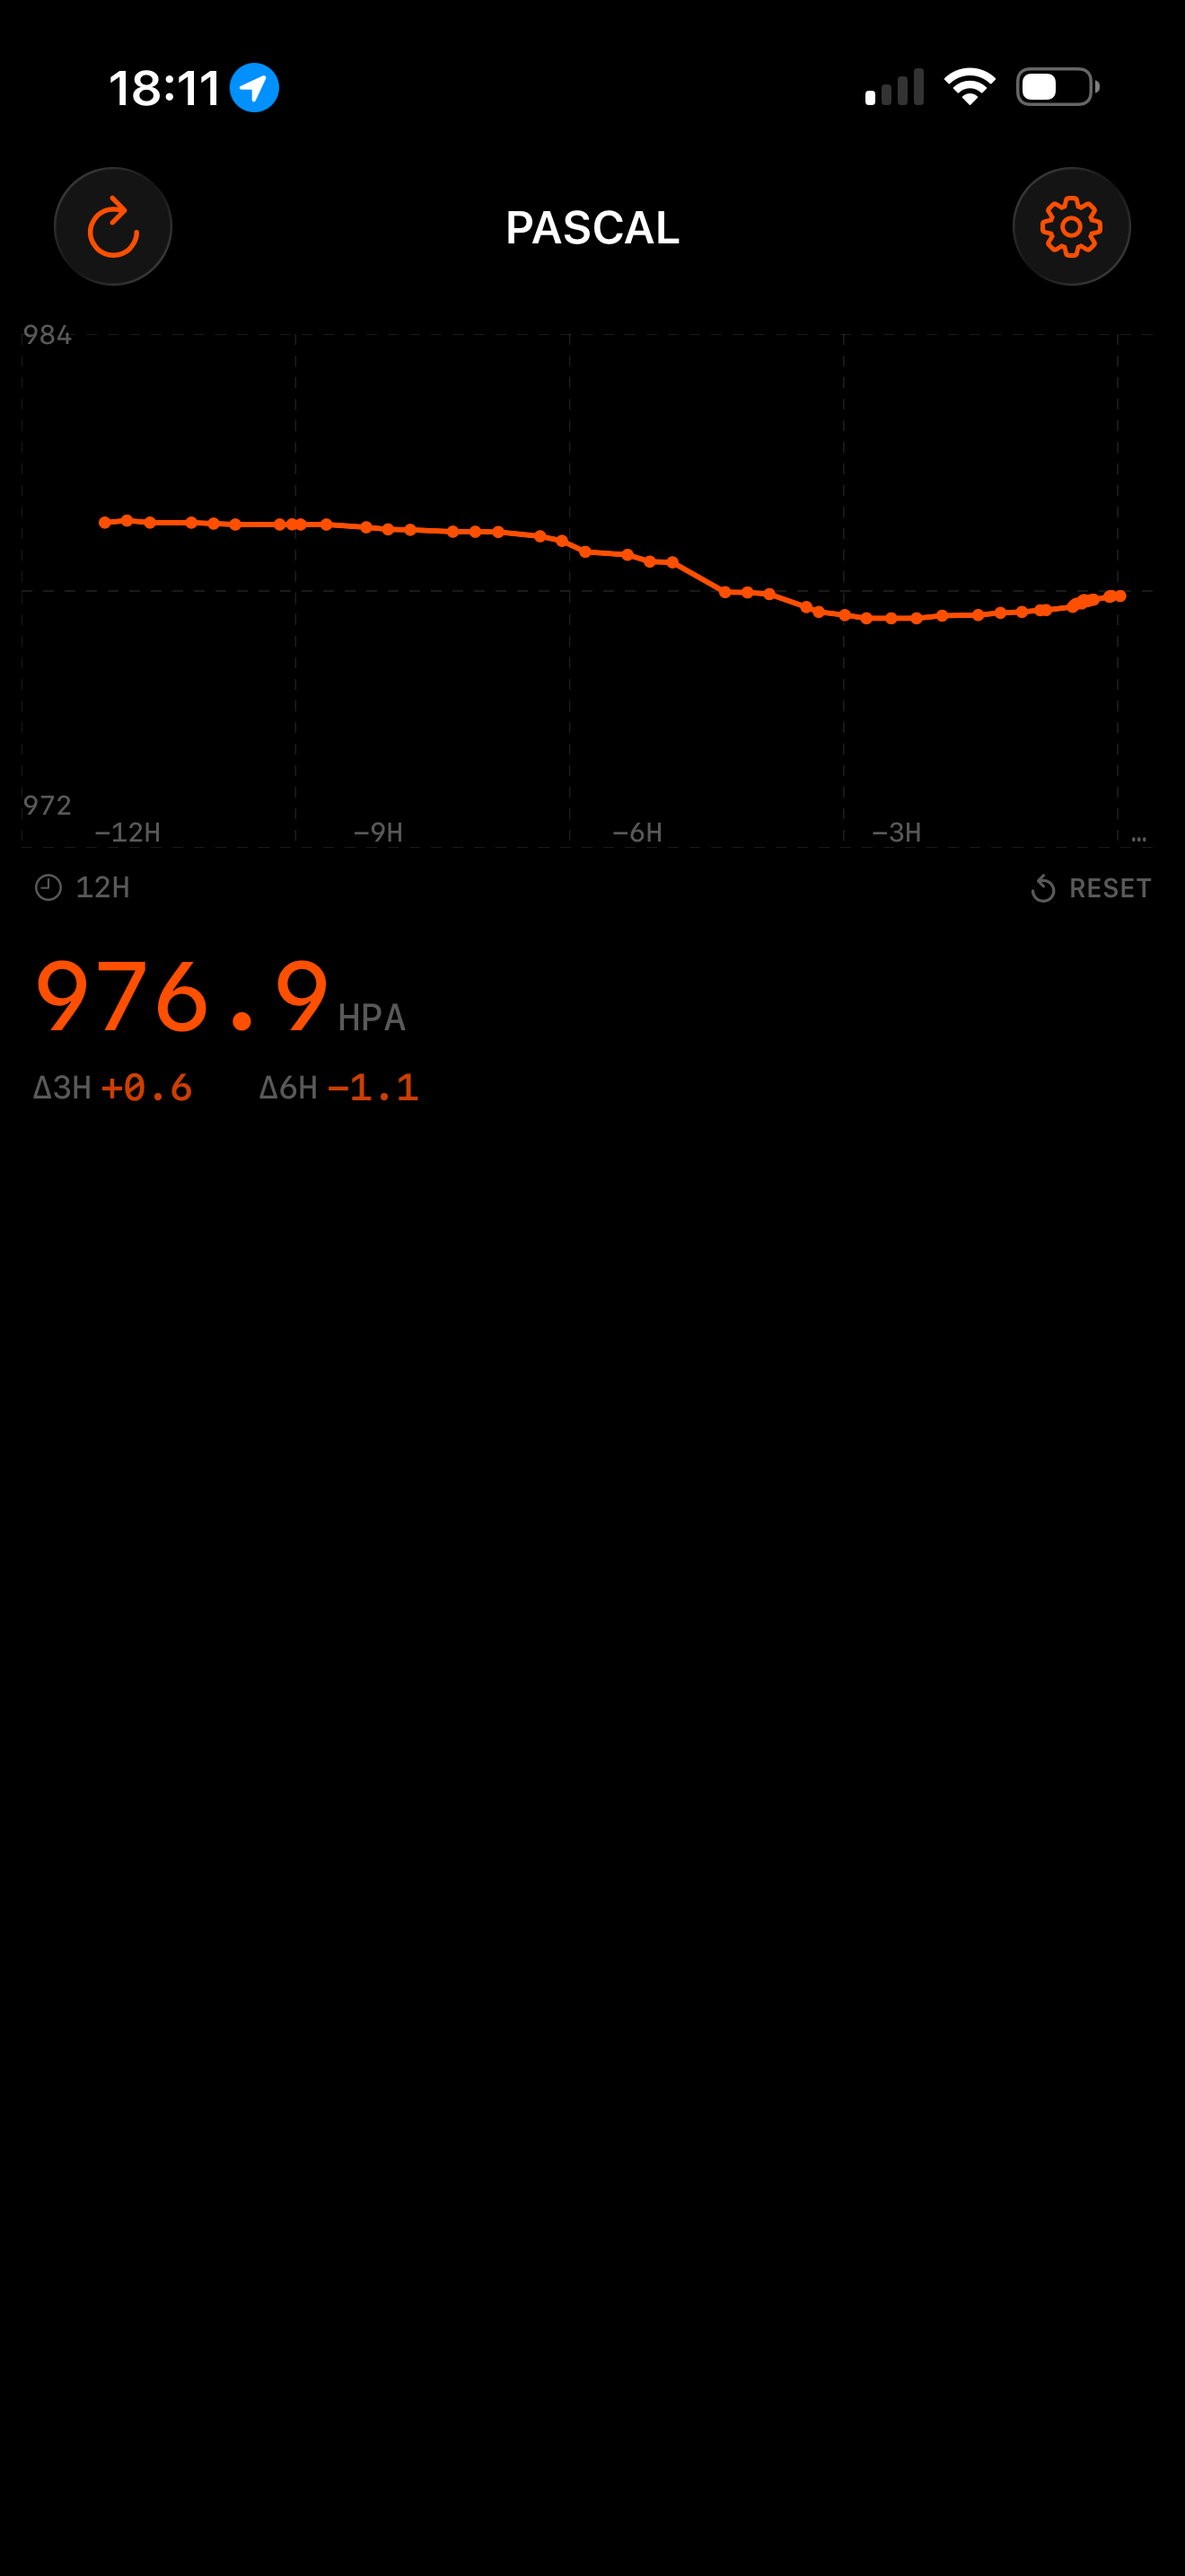
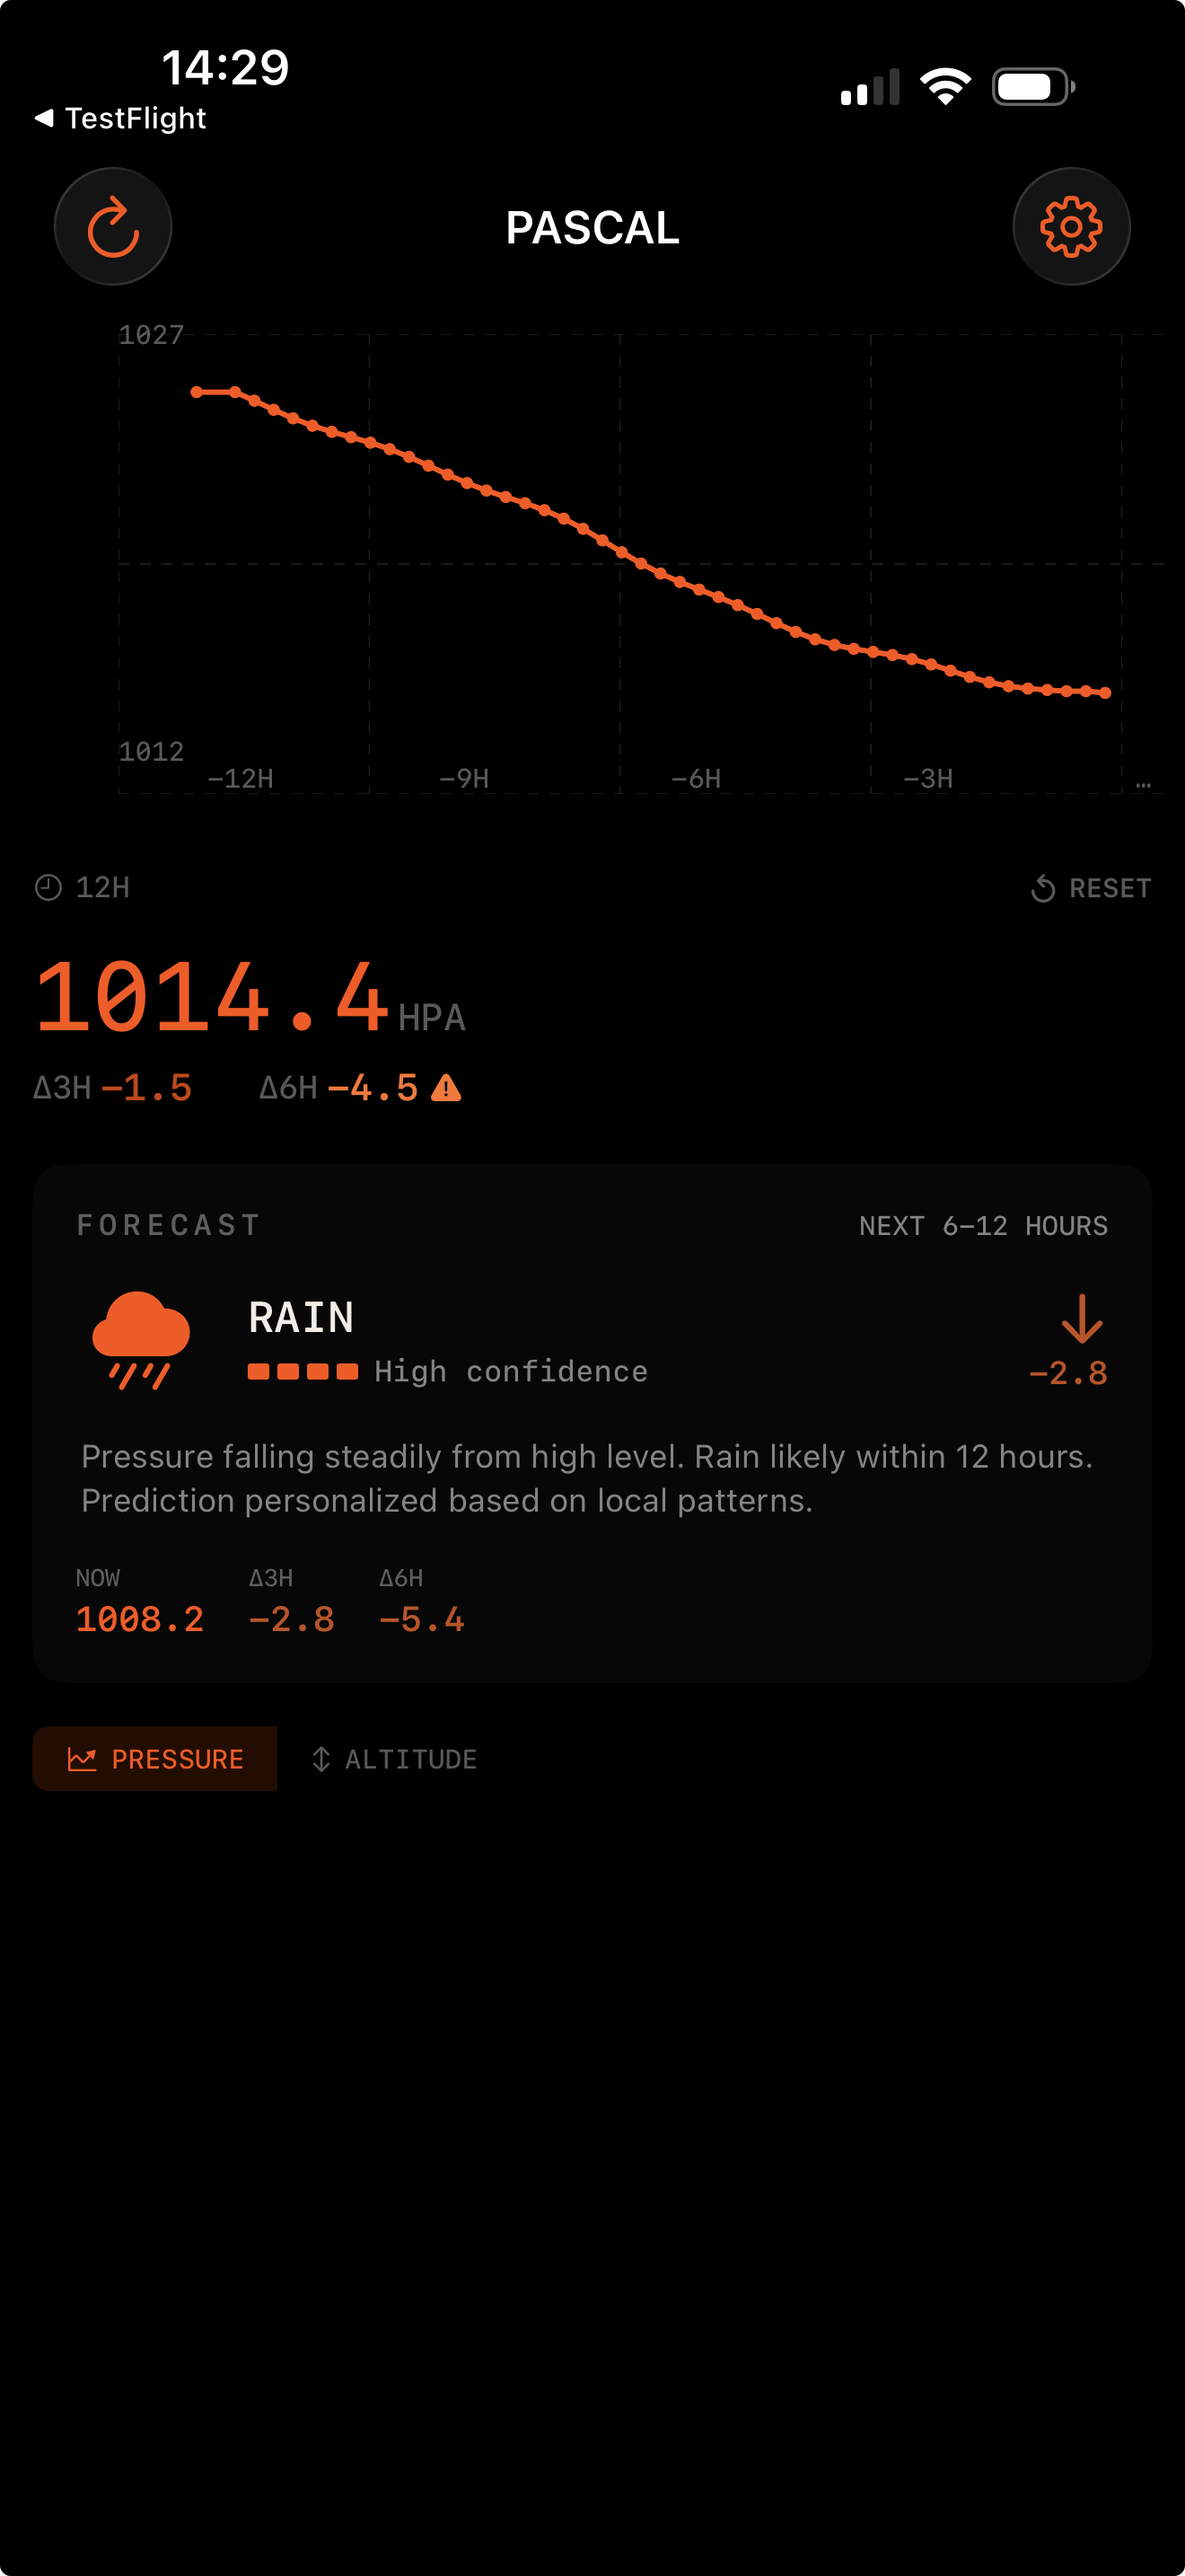
pascal

diff --git a/pascal/index.html b/pascal/index.html
@@ -25,16 +25,16 @@ description: Track local atmospheric pressure trends to detect weather changes. 
 <div class="screenshots">
     <div class="device-mockups three-up">
         <div class="screenshot-item">
-            <img src="iphone-main.png" alt="Pascal main screen showing pressure trend" class="iphone">
-            <span class="screenshot-label">TREND ANALYSIS</span>
+            <img src="iphone-main.png" alt="Pascal pressure view with falling trend" class="iphone">
+            <span class="screenshot-label">PRESSURE TREND</span>
+        </div>
+        <div class="screenshot-item">
+            <img src="iphone-alt.png" alt="Pascal altitude tracking view" class="iphone">
+            <span class="screenshot-label">ALTITUDE MODE</span>
         </div>
         <div class="screenshot-item">
             <img src="widget.png" alt="Pascal widget" class="widget">
             <span class="screenshot-label">HOME WIDGET</span>
-        </div>
-        <div class="screenshot-item">
-            <img src="watch-main.png" alt="Pascal on Apple Watch" class="watch">
-            <span class="screenshot-label">APPLE WATCH</span>
         </div>
     </div>
 </div>
@@ -43,16 +43,10 @@ description: Track local atmospheric pressure trends to detect weather changes. 
     <div class="section-header">MISSION BRIEF</div>
     <div class="card">
         <p>
-            Pascal tracks local atmospheric pressure using your device's barometer to detect weather changes and pressure fronts as they happen.
+            <strong>Know when weather is coming before it arrives.</strong> Pascal turns your iPhone's barometer into a personal weather station that detects pressure fronts in real-time.
         </p>
         <p>
-            For people sensitive to weather changes, monitoring pressure trends can help you stay ahead of incoming weather fronts.
-        </p>
-        <p>
-            The core challenge: a 6-meter elevation change (two flights of stairs) shifts pressure by ~0.7 hPa—the same magnitude as a meaningful weather change over 3 hours.
-        </p>
-        <p>
-            Pascal uses a hybrid calibration system to filter movement noise and surface the weather signal you care about.
+            Perfect for migraines, outdoor planning, or just understanding why you feel "off" today. The challenge? Walking upstairs creates the same pressure shift as a storm front. Pascal's hybrid calibration system filters out your movement to reveal the true weather signal.
         </p>
     </div>
 </section>
@@ -60,55 +54,29 @@ description: Track local atmospheric pressure trends to detect weather changes. 
 <section>
     <div class="section-header">WEATHER FORECASTING</div>
     <div class="card">
-        <h3>ON-DEVICE PREDICTION</h3>
+        <h3>PREDICT RAIN BEFORE IT HAPPENS</h3>
         <p>
-            Pascal predicts weather changes using only your pressure history—no internet required. Based on the Zambretti Forecaster (1915), a meteorological standard still used by professionals today.
+            No internet required. Pascal uses the Zambretti Forecaster—a 110-year-old meteorological algorithm still trusted by professionals—combined with on-device ML that learns your local patterns.
         </p>
         <table class="specs-table" style="margin-top: 16px;">
             <tr>
-                <td>FALLING PRESSURE</td>
-                <td>Approaching low pressure system</td>
-            </tr>
-            <tr>
-                <td>RISING PRESSURE</td>
-                <td>High pressure building</td>
-            </tr>
-            <tr>
-                <td>RAPID DROP (&gt;2 hPa/3h)</td>
+                <td>RAPID DROP</td>
                 <td>Storm likely within 6-12 hours</td>
             </tr>
-        </table>
-        <p style="margin-top: 16px;">
-            Each prediction includes condition (Sunny, Rain, Storm...), confidence level, plain-English reasoning, and timeframe. All computed on-device—works in airplane mode.
-        </p>
-    </div>
-    <div class="card">
-        <h3>LEARNS YOUR LOCAL WEATHER</h3>
-        <p>
-            Pascal's Bayesian ML model learns automatically from your pressure history. No user feedback required—predictions improve silently in the background.
-        </p>
-        <table class="specs-table" style="margin-top: 16px;">
             <tr>
-                <td>INSTANT BOOTSTRAP</td>
-                <td>Seeds model with Zambretti archetypes on first launch</td>
+                <td>STEADY FALL</td>
+                <td>Rain approaching</td>
             </tr>
             <tr>
-                <td>AUTO-EVALUATION</td>
-                <td>Checks what actually happened after 6 hours</td>
-            </tr>
-            <tr>
-                <td>PERSONALIZATION</td>
-                <td>~25 predictions to become localized to your area</td>
+                <td>RISING</td>
+                <td>Clear weather building</td>
             </tr>
         </table>
-        <p style="margin-top: 16px;">
-            If you have a week of pressure history, Pascal is personalized immediately. The model combines 110-year-old meteorological wisdom with modern machine learning.
-        </p>
     </div>
     <div class="card">
-        <h3>ZAMBRETTI-ALIGNED CONFIDENCE</h3>
+        <h3>GETS SMARTER OVER TIME</h3>
         <p>
-            Confidence levels follow classical meteorological research. Rapid pressure changes produce high-confidence predictions (clear signal), while slow changes appropriately lower confidence. Predictions are boosted when pressure level confirms the forecast.
+            After ~25 predictions, Pascal becomes personalized to your exact location. Coastal, mountain, or city—the ML model learns what pressure patterns mean <em>where you live</em>.
         </p>
     </div>
 </section>
@@ -124,8 +92,8 @@ description: Track local atmospheric pressure trends to detect weather changes. 
                     <line x1="3" y1="20" x2="3" y2="6" stroke-opacity="0.3" />
                 </svg>
             </div>
-            <h3>12-HOUR TREND ANALYSIS</h3>
-            <p>Real-time pressure visualization with interactive charts. Pan, zoom, and explore your atmospheric history.</p>
+            <h3>12-HOUR TRENDS</h3>
+            <p>Interactive pressure charts with 3h/6h delta indicators. See exactly how fast pressure is changing.</p>
         </div>
         <div class="feature">
             <div class="icon-frame">
@@ -138,22 +106,19 @@ description: Track local atmospheric pressure trends to detect weather changes. 
                     <line x1="19" y1="12" x2="22" y2="12" />
                 </svg>
             </div>
-            <h3>HYBRID CALIBRATION</h3>
-            <p>Two-layer system: movement compensation + GPS sea-level reduction. Aerospace-grade accuracy.</p>
+            <h3>GPS CALIBRATION</h3>
+            <p>Converts to sea-level pressure for accurate forecasting. Compare with official weather stations.</p>
         </div>
         <div class="feature">
             <div class="icon-frame">
                 <svg viewBox="0 0 24 24" fill="none" stroke="#FF4500" stroke-width="1.5" stroke-linecap="round" stroke-linejoin="round">
-                    <rect x="6" y="3" width="12" height="18" rx="3" />
-                    <line x1="9" y1="3" x2="9" y2="2" />
-                    <line x1="15" y1="3" x2="15" y2="2" />
-                    <line x1="9" y1="21" x2="9" y2="22" />
-                    <line x1="15" y1="21" x2="15" y2="22" />
-                    <polyline points="9,14 11,11 13,13 15,10" stroke-opacity="0.7" stroke-width="1" />
+                    <path d="M5,17 L5,9 C5,6 7,4 10,4 L14,4 C17,4 19,6 19,9 L19,17" />
+                    <line x1="12" y1="4" x2="12" y2="1" />
+                    <polyline points="8,13 10,10 12,12 14,9 16,11" stroke-opacity="0.7" stroke-width="1" />
                 </svg>
             </div>
-            <h3>APPLE WATCH</h3>
-            <p>Glanceable complications and full app. Watch displays iPhone data synced via WatchConnectivity for GPS-calibrated accuracy.</p>
+            <h3>ALTITUDE MODE</h3>
+            <p>Track elevation changes in real-time. Perfect for hiking, cycling, or elevator spotting.</p>
         </div>
         <div class="feature">
             <div class="icon-frame">
@@ -162,8 +127,8 @@ description: Track local atmospheric pressure trends to detect weather changes. 
                     <circle cx="22" cy="12" r="1.5" fill="#FF4500" stroke="none" opacity="0.5" />
                 </svg>
             </div>
-            <h3>BACKGROUND SAMPLING</h3>
-            <p>Continuous monitoring without draining battery. Samples every 15-30 minutes automatically.</p>
+            <h3>ALWAYS RUNNING</h3>
+            <p>Background sampling every 15-30 minutes. Zero battery impact—your trend is always ready.</p>
         </div>
         <div class="feature">
             <div class="icon-frame">
@@ -175,8 +140,8 @@ description: Track local atmospheric pressure trends to detect weather changes. 
                     <polyline points="6,18 9,16 12,17.5 15,15 18,16.5" stroke-opacity="0.5" stroke-width="1" />
                 </svg>
             </div>
-            <h3>HOME SCREEN WIDGETS</h3>
-            <p>Multiple sizes for iPhone. Current pressure, trend arrows, and mini charts at a glance.</p>
+            <h3>WIDGETS</h3>
+            <p>Home screen widgets in multiple sizes. Glance at pressure, trend, and forecast instantly.</p>
         </div>
         <div class="feature">
             <div class="icon-frame">
@@ -187,146 +152,40 @@ description: Track local atmospheric pressure trends to detect weather changes. 
                 </svg>
             </div>
             <h3>MOVEMENT FILTER</h3>
-            <p>Intelligent rate-of-change detection separates weather signals from human activity.</p>
+            <p>Stairs, elevators, and driving automatically filtered. Only true weather changes shown.</p>
         </div>
     </div>
 </section>
 
 <section>
-    <div class="section-header">TECHNICAL SPECIFICATIONS</div>
+    <div class="section-header">HOW IT WORKS</div>
     <div class="card">
+        <h3>TWO-LAYER CALIBRATION</h3>
+        <p>
+            <strong>Layer 1:</strong> Movement compensation filters stairs, elevators, and driving using barometer's relative altitude.<br>
+            <strong>Layer 2:</strong> GPS converts to sea-level pressure so you can compare with weather stations.
+        </p>
+    </div>
+    <div class="card">
+        <h3>SPECS</h3>
         <table class="specs-table">
             <tr>
                 <td>SENSOR</td>
-                <td>Bosch BMP280 Barometer</td>
+                <td>Bosch BMP280 (±1 hPa accuracy)</td>
             </tr>
             <tr>
                 <td>RESOLUTION</td>
-                <td>~0.18 Pa (1.5 cm altitude)</td>
-            </tr>
-            <tr>
-                <td>ACCURACY</td>
-                <td>±1 hPa</td>
-            </tr>
-            <tr>
-                <td>PRESSURE LAPSE RATE</td>
-                <td>~0.12 hPa / meter</td>
+                <td>1.5 cm altitude equivalent</td>
             </tr>
             <tr>
                 <td>STORM THRESHOLD</td>
-                <td>6+ hPa / 3 hours</td>
+                <td>6+ hPa drop in 3 hours</td>
             </tr>
             <tr>
-                <td>SENSITIVITY REFERENCE</td>
-                <td>~5 hPa / 24 hours</td>
-            </tr>
-            <tr>
-                <td>CALIBRATION</td>
-                <td>Hypsometric + Relative Altitude</td>
-            </tr>
-            <tr>
-                <td>DATA RETENTION</td>
+                <td>HISTORY</td>
                 <td>48 hours rolling</td>
             </tr>
         </table>
-    </div>
-</section>
-
-<section>
-    <div class="section-header">CALIBRATION SYSTEM</div>
-    <div class="card">
-        <h3>LAYER 1 // MOVEMENT COMPENSATION</h3>
-        <p>
-            Uses the barometer's relative altitude tracking to detect and remove pressure changes from stairs, elevators, and floor changes. More accurate than GPS for short-term movements.
-        </p>
-        <p>
-            <code>compensated = raw + (relativeAltitude × 0.12)</code>
-        </p>
-    </div>
-    <div class="card">
-        <h3>LAYER 2 // SEA-LEVEL REDUCTION</h3>
-        <p>
-            Uses GPS altitude to convert station pressure to sea-level pressure (QNH). Enables comparison with weather forecasts and removes absolute elevation bias.
-        </p>
-        <p>
-            <code>P_sea = P_station × (1 - (L × h) / T₀)^(-g / (R × L))</code>
-        </p>
-    </div>
-</section>
-
-<section>
-    <div class="section-header">CALIBRATION BADGES</div>
-    <div class="card">
-        <p>Each reading shows its calibration quality:</p>
-        <table class="specs-table" style="margin-top: 16px;">
-            <tr>
-                <td>FULL</td>
-                <td>Both layers applied (best quality)</td>
-            </tr>
-            <tr>
-                <td>GPS</td>
-                <td>Fresh GPS altitude (&lt; 1 hour)</td>
-            </tr>
-            <tr>
-                <td>GPS*</td>
-                <td>Recent GPS (1-6 hours)</td>
-            </tr>
-            <tr>
-                <td>REL</td>
-                <td>Movement compensation only</td>
-            </tr>
-            <tr>
-                <td>CACHE</td>
-                <td>Cached GPS (&gt; 6 hours)</td>
-            </tr>
-            <tr>
-                <td>RAW</td>
-                <td>Uncalibrated station pressure</td>
-            </tr>
-        </table>
-    </div>
-</section>
-
-<section>
-    <div class="section-header">NOISE REDUCTION</div>
-    <div class="card">
-        <h3>RATE-OF-CHANGE FILTERING</h3>
-        <p>
-            Detects movement vs weather based on pressure change rate:
-        </p>
-        <table class="specs-table" style="margin-top: 12px;">
-            <tr>
-                <td>&lt; 0.3 hPa/min</td>
-                <td>Weather (trusted)</td>
-            </tr>
-            <tr>
-                <td>&gt; 0.3 hPa/min</td>
-                <td>Movement (filtered)</td>
-            </tr>
-        </table>
-        <p style="margin-top: 12px;">
-            Elevators, stairs, and driving are automatically filtered from trend calculations.
-        </p>
-    </div>
-    <div class="card">
-        <h3>GPS ALTITUDE SMOOTHING</h3>
-        <p>
-            Rolling median filter (7 samples) rejects GPS jitter. Sudden jumps &gt;10m rejected unless 5+ minutes pass.
-        </p>
-    </div>
-</section>
-
-<section>
-    <div class="section-header">REFERENCES</div>
-    <div class="card">
-        <p>
-            — Barometric Formula (Wikipedia)<br>
-            — Zambretti Forecaster (1915)<br>
-            — Zaliva & Franchetti (CMU): GPS/Barometer Sensor Fusion<br>
-            — ICAO Standard Atmosphere<br>
-            — Bosch BMP280 Datasheet<br>
-            — Apple CMAltimeter Documentation
-        </p>
     </div>
 </section>
 
